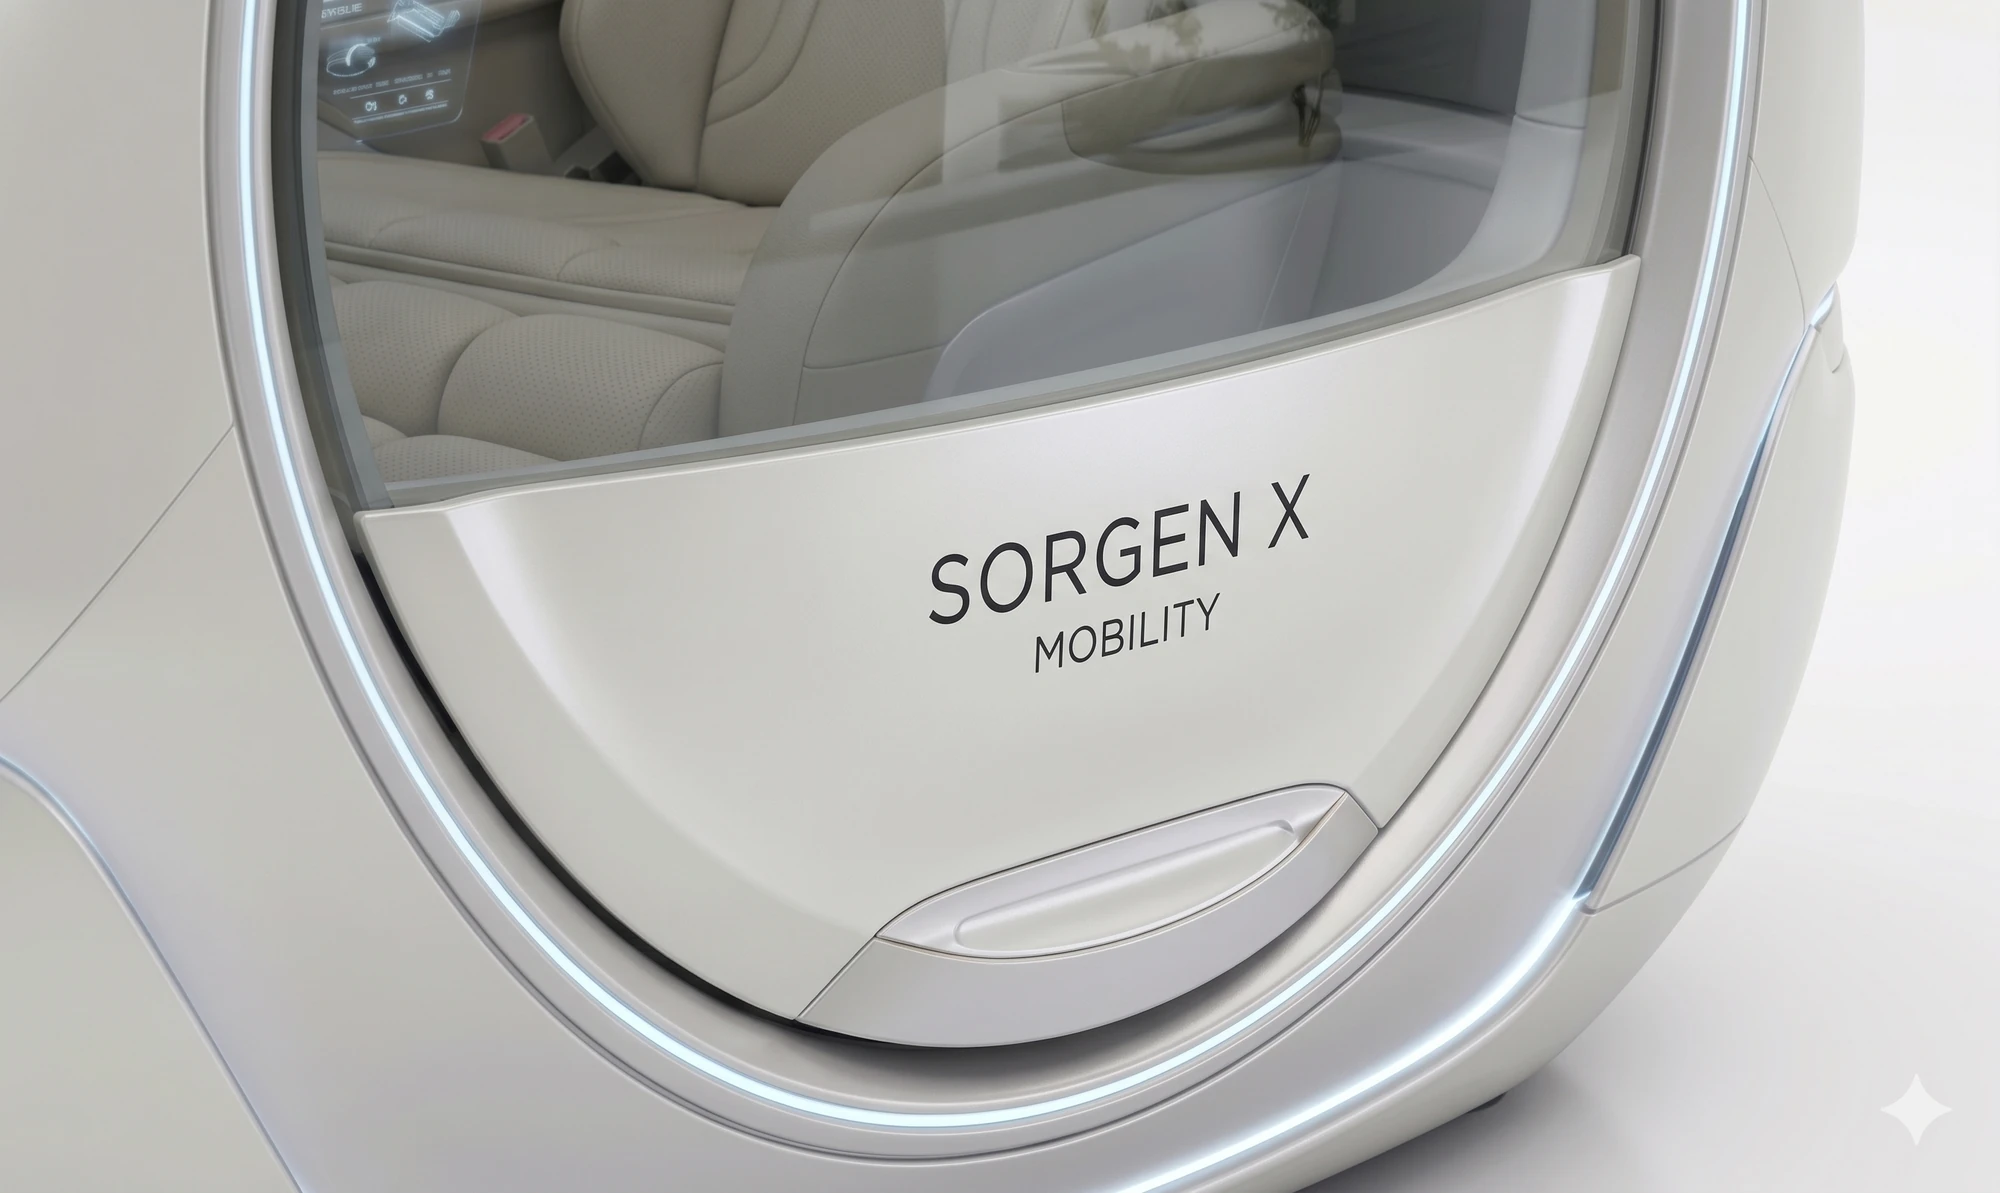
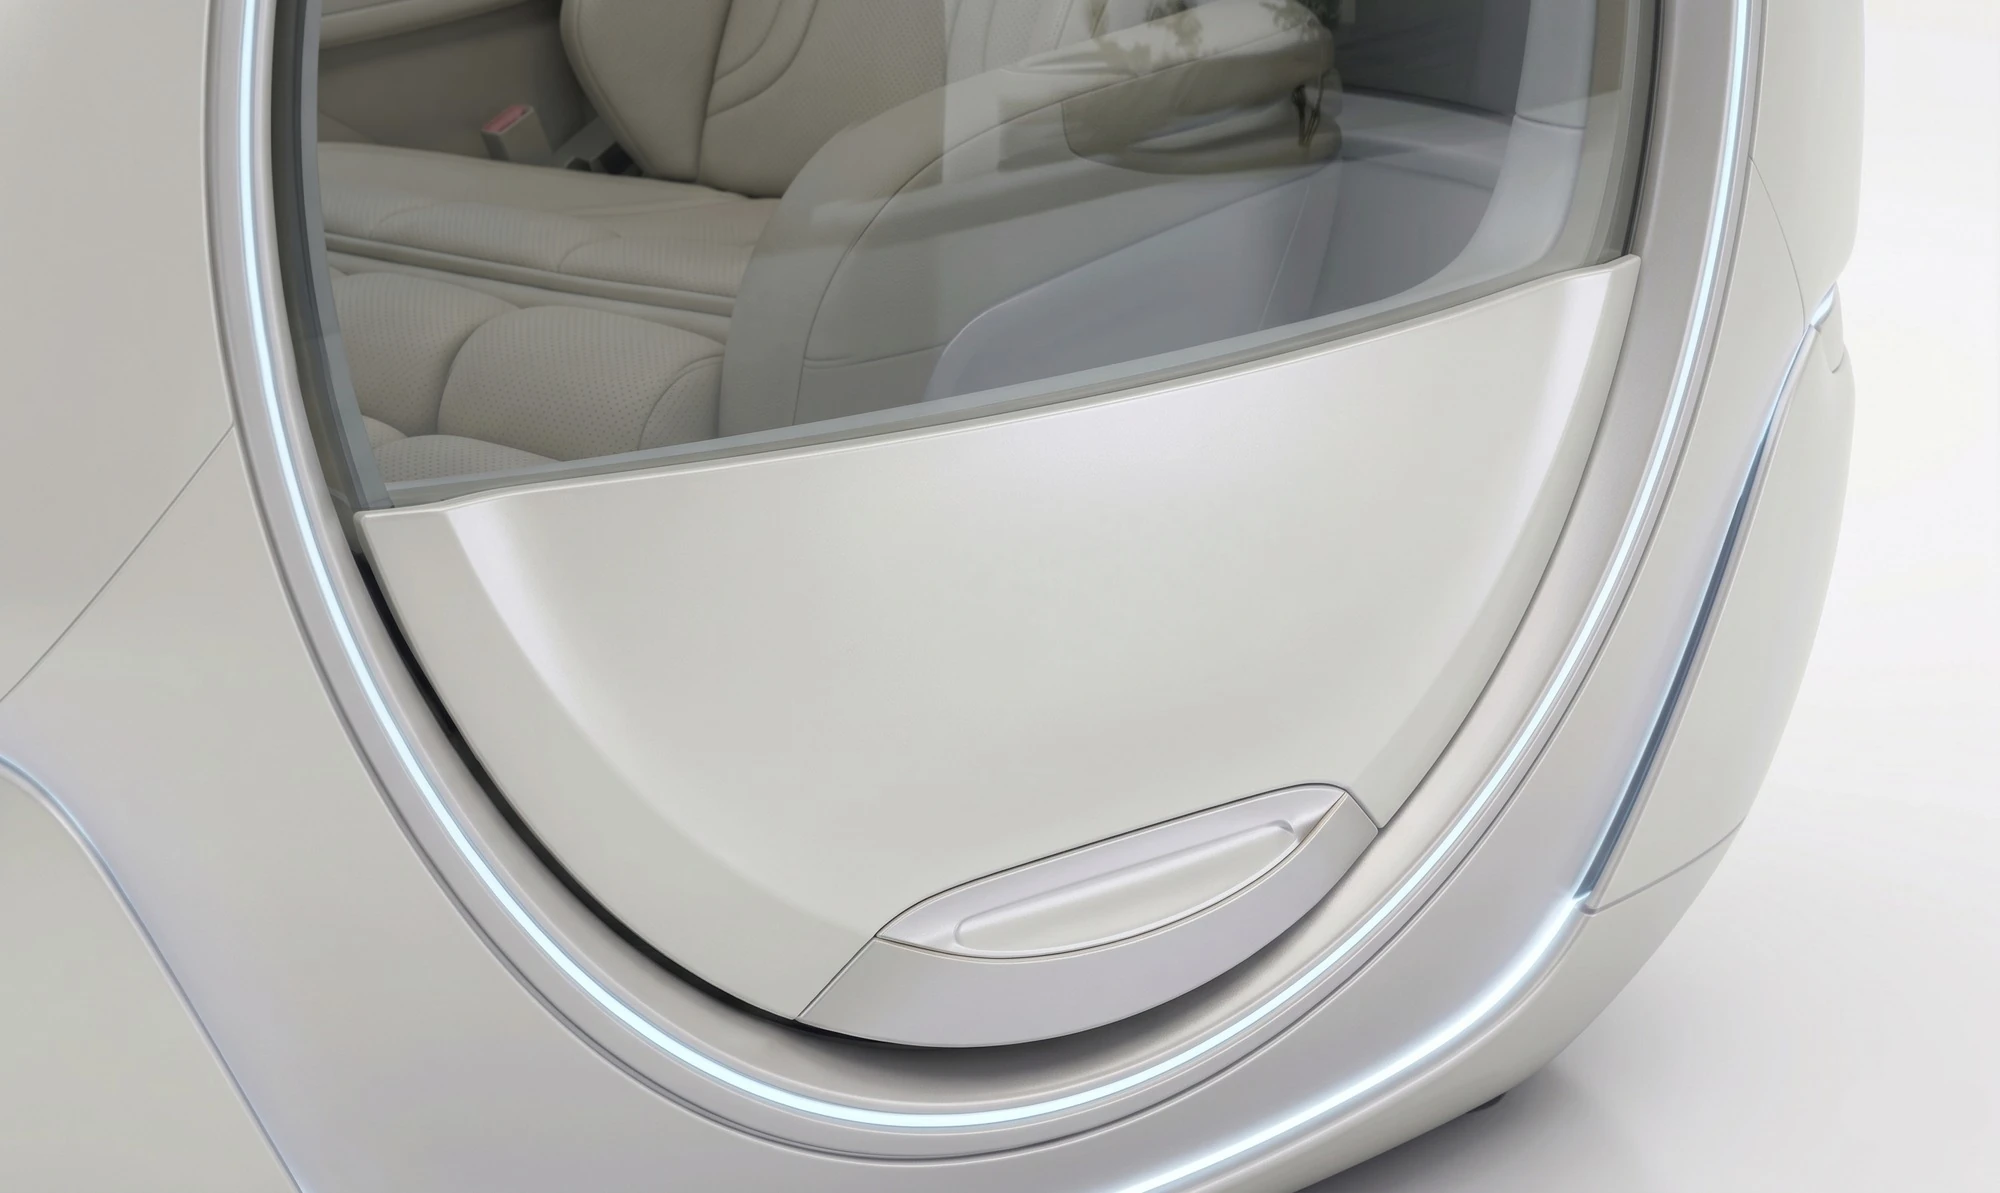
Replace cleaned product photos for hero, door, interior, and OG image.
Leave the top-down render unchanged until a revised version is approved.

diff --git a/src/lib/images.ts b/src/lib/images.ts
@@ -28,6 +28,6 @@ function image(variants: Array<[string, number]>, height: number): SiteImage {
 export const siteImages = {
   hero: image([[hero750, 750], [hero1480, 1480]], 1600),
   door: image([[door800, 800], [door1400, 1400], [door2000, 2000]], 1193),
-  interior: image([[interior640, 640], [interior1262, 1262]], 832),
+  interior: image([[interior640, 640], [interior1262, 1262]], 723),
   topdown: image([[topdown640, 640], [topdown1262, 1262]], 832),
 } satisfies Record<string, SiteImage>;
